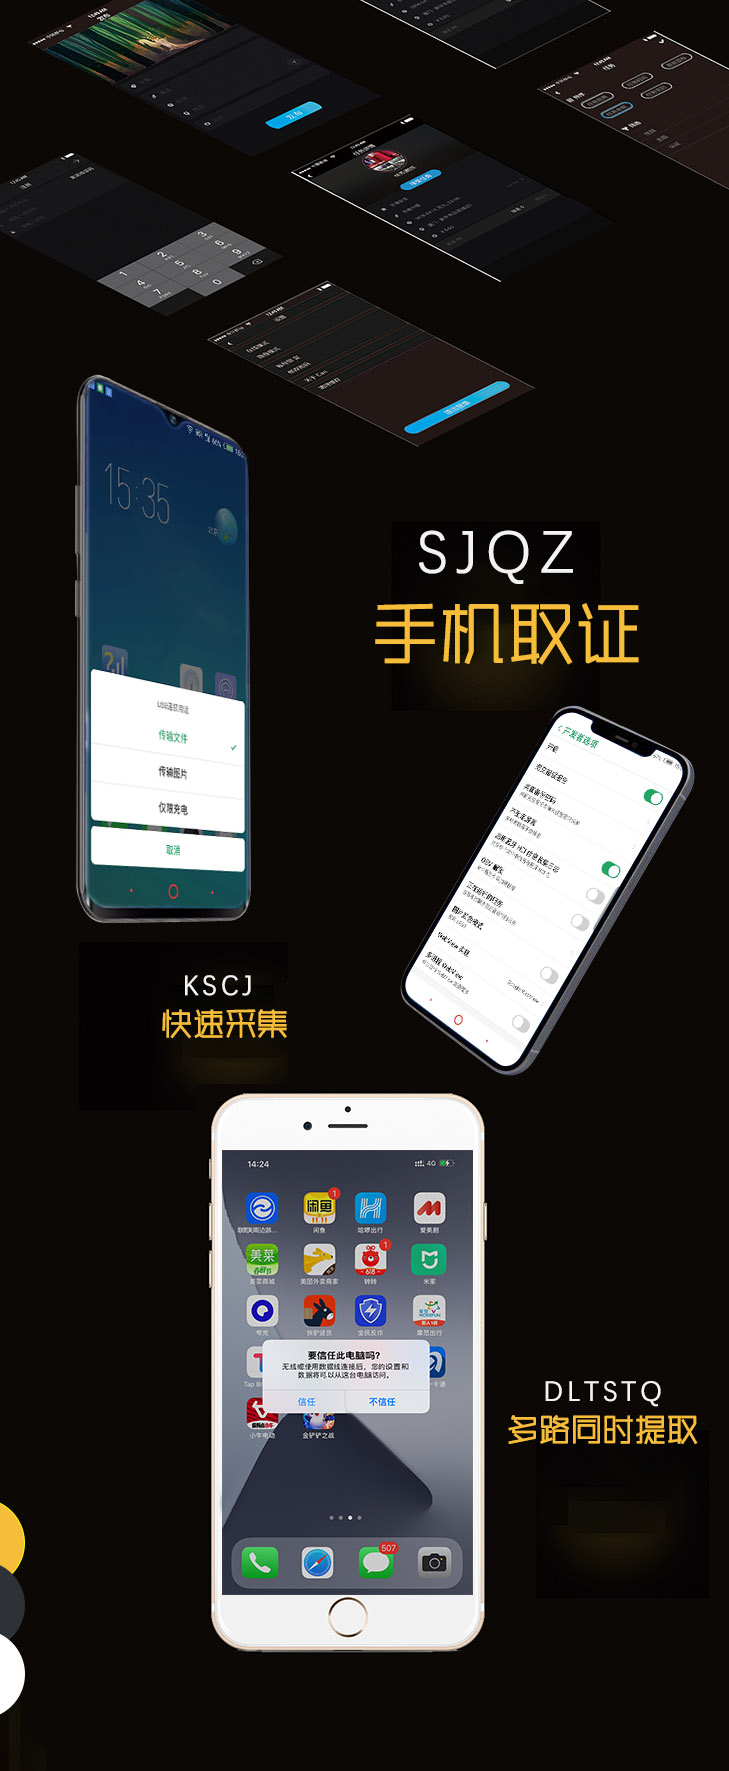
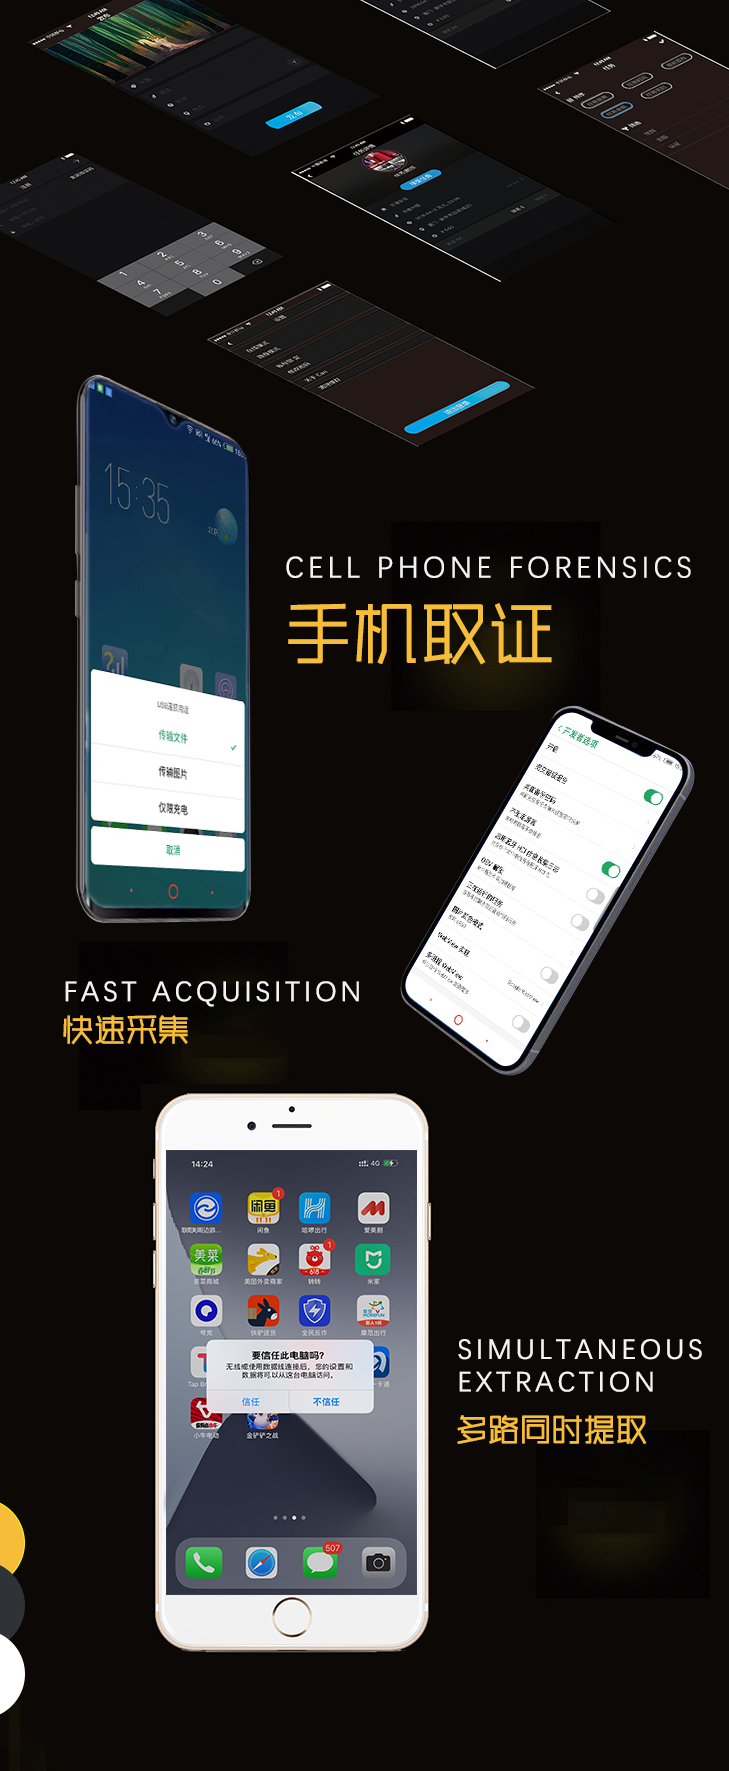
更换首页图

Changed region(s): [[0.0905, 0.528, 0.9657, 0.9317], [0.3923, 0.2795, 0.9355, 0.3727]]

diff --git a/src/component/guide-menu/styled/menu-panel.tsx b/src/component/guide-menu/styled/menu-panel.tsx
@@ -7,7 +7,7 @@ const MenuPanel = styled.div`
     width: auto;
     /* overflow-x: auto; */
     /* grid-template-rows: 50% 50%; */
-    grid-template-columns: repeat(4,minmax(350px,350px));
+    grid-template-columns: repeat(4, minmax(350px, 350px));
     grid-auto-flow: column;
     grid-gap: 20px;
 

diff --git a/src/view/default/guide/styled/extend-panel.tsx b/src/view/default/guide/styled/extend-panel.tsx
@@ -2,10 +2,10 @@ import styled from 'styled-components';
 
 const ExtendPanel = styled.div`
     position: absolute;
-    top:0;
-    left:0;
-    bottom:0;
-    right:20px;
+    top: 0;
+    left: 0;
+    bottom: 0;
+    right: 15px;
     overflow-x: scroll;
 
     //内层隐藏滚动条
